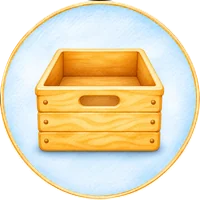
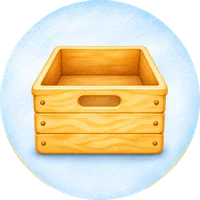
Vokabelkiste: Abzeichen sauber rund und in gleich hohen Reihen, neues Bild «Bilderblick», Reiter mit Bildern, liebevollerer Heftumschlag
Claude-Session: https://claude.ai/code/session_016s2NAFiGyik3sFHXEjMSbh

Changed region(s): [[0.15, 0.21, 0.84, 0.81], [0.0, 0.0, 1.0, 1.0]]

diff --git a/vokabelkiste/index.html b/vokabelkiste/index.html
@@ -731,6 +731,36 @@ ul.miss{margin:0;padding-left:20px;max-height:200px;overflow:auto;color:var(--mu
 .face.back .cpic{position:relative;right:auto;bottom:auto}
 .face.back .cpic .pic{width:clamp(64px,22vw,120px);height:clamp(64px,22vw,120px)}
 .face.back .cpic .pic.emo{font-size:clamp(44px,14vw,78px);width:auto;height:auto}
+/* Heft, Runde 3: Abzeichen in gleich hohen Reihen, sauberer Goldrand (vom CSS), Reiter mit Bildern, liebevoller Umschlag */
+.badges{align-items:start;gap:22px 12px}
+.bdg{display:grid;grid-template-rows:124px auto auto;justify-items:center;align-items:start}
+.bdg .bi{align-self:center;border-radius:50%}
+.bdg.t0 .bi{box-shadow:0 0 0 3px #fff,0 0 0 5px #e1e5e8!important}
+.bdg.t1 .bi{box-shadow:0 0 0 3px #fff,0 0 0 5px var(--gold-l),0 5px 12px rgba(63,120,168,.18)!important}
+.bdg.t2 .bi{box-shadow:0 0 0 3px #fff,0 0 0 6px #c9d2d9,0 0 0 8px #fff,0 6px 14px rgba(63,120,168,.2)!important}
+.bdg.t3 .bi{box-shadow:0 0 0 3px #fff,0 0 0 6px var(--gold),0 0 0 9px #fff3c9,0 6px 18px rgba(196,149,47,.4)!important}
+.bdg.t4 .bi{box-shadow:0 0 0 3px #fff,0 0 0 7px var(--gold-d),0 0 0 11px #ffe7a0,0 0 26px rgba(214,173,69,.75)!important}
+.bdg .bn{margin-top:4px}
+.htab{display:inline-flex;align-items:center;gap:8px}
+.htab .rt{width:30px;height:30px;border-radius:50%;flex:none}
+.htab:not(.on) .rt{opacity:.85}
+.hcover{min-height:190px;background:radial-gradient(circle at 18% 30%,rgba(255,255,255,.14),transparent 40%),radial-gradient(circle at 80% 80%,rgba(255,255,255,.08),transparent 45%),repeating-linear-gradient(45deg,rgba(255,255,255,.05) 0 2px,transparent 2px 5px),repeating-linear-gradient(-45deg,rgba(0,0,0,.05) 0 2px,transparent 2px 5px),linear-gradient(135deg,#5a95c6,#33679a 60%,#2c5a86)}
+.hstich{position:absolute;inset:10px 96px 10px 30px;border:2px dashed rgba(255,248,225,.55);border-radius:10px 18px 18px 10px;pointer-events:none}
+.hband{right:70px;width:16px}
+.hband i{position:absolute;left:-5px;top:50%;width:26px;height:16px;margin-top:-8px;border-radius:5px;background:linear-gradient(180deg,#f3dc9a,#c4952f);box-shadow:0 2px 4px rgba(0,0,0,.3)}
+.hribbon{position:absolute;right:120px;bottom:-2px;width:18px;height:46px;background:linear-gradient(90deg,#e9a49c,#d9766c);clip-path:polygon(0 0,100% 0,100% 100%,50% 78%,0 100%);box-shadow:0 2px 4px rgba(0,0,0,.2)}
+.hdoo{position:absolute;color:rgba(255,243,201,.85);font-size:20px;pointer-events:none;text-shadow:0 0 6px rgba(255,255,255,.25)}
+.hdoo.d1{left:22%;top:16%;font-size:24px}.hdoo.d2{left:30%;bottom:16%}.hdoo.d3{right:28%;top:14%;font-size:18px;color:rgba(252,239,237,.8)}
+.hdoo.d4{right:22%;bottom:18%;font-size:16px}.hdoo.d5{left:14%;bottom:24%;font-size:16px}.hdoo.d6{right:33%;bottom:30%;font-size:14px}
+.hlabel{transform:rotate(-1.2deg);padding:16px 40px 14px;
+  background:linear-gradient(transparent 0 calc(100% - 22px),rgba(63,120,168,.0) 0),repeating-linear-gradient(transparent 0 25px,rgba(63,120,168,.10) 25px 26px),#fffdf5}
+.htape{position:absolute;top:-12px;width:74px;height:24px;background:repeating-linear-gradient(45deg,rgba(233,164,156,.75) 0 6px,rgba(252,239,237,.75) 6px 12px);box-shadow:0 1px 2px rgba(0,0,0,.12)}
+.htape.l{left:-18px;transform:rotate(-14deg)}
+.htape.r{right:-18px;transform:rotate(12deg);background:repeating-linear-gradient(45deg,rgba(156,200,234,.8) 0 6px,rgba(220,240,253,.8) 6px 12px)}
+.hk{letter-spacing:.06em}
+.hz{display:block;width:60%;height:10px;margin-top:4px;background:radial-gradient(circle,var(--gold) 1.6px,transparent 2.2px) 0 50%/14px 10px repeat-x;opacity:.7}
+.heule{left:auto;right:132px;top:auto;bottom:10px;transform:rotate(8deg);width:86px;height:86px;border:0;border-radius:50%;box-shadow:0 0 0 4px #fff,0 0 0 6px var(--gold),0 8px 16px rgba(0,0,0,.28)}
+@media (max-width:620px){.heule{width:56px;height:56px;right:96px;bottom:6px}.hstich{right:84px}.hlabel{padding:12px 22px;min-width:70%}.hribbon{right:84px}.hdoo{display:none}}
 @media (prefers-reduced-motion:reduce){.inner,.tile,.fach,.fold,.portion,.bar i,.toast{transition:none}}
 </style>
 <div id="vk-root"></div>
@@ -1961,7 +1991,7 @@ function goHeft(tab){stopSession();tab=tab||'stk';nav={view:'heft',tab};if(!heft
         :`<div class="stslot zu" aria-label="Noch nicht gefunden"><div class="geheim">${FUNKEN(i+1)}<span class="fz">?</span></div></div>`}).join('')}</div>
     <p class="hfuss">Für jede geschaffte Portion klebst du einen neuen Sticker ein. Welcher es wird, ist eine Überraschung.</p>`;
   else if(tab==='bdg')body=`${prog(bn,BADGES.length,'Abzeichen')}
-    <div class="badges">${BADGES.map((b,i)=>{const n=bdgN(b,i),t=vkTier(n);return `<div class="bdg t${t}"><div class="bi"><img src="abzeichen/${b[0]}.webp?v=1" alt="" draggable="false">${n>0?`<b class="bz">${n}</b>`:''}</div><span class="bn">${b[2]}</span><small>${b[3]}</small></div>`}).join('')}</div>
+    <div class="badges">${BADGES.map((b,i)=>{const n=bdgN(b,i),t=vkTier(n);return `<div class="bdg t${t}"><div class="bi"><img src="abzeichen/${b[0]}.webp?v=2" alt="" draggable="false">${n>0?`<b class="bz">${n}</b>`:''}</div><span class="bn">${b[2]}</span><small>${b[3]}</small></div>`}).join('')}</div>
     <p class="hfuss">Viele Abzeichen bekommst du mehrmals. Ab 5, 10 und 25 werden sie grösser.</p>`;
   else body=`${prog(units.filter(u=>urkT(u)).length,units.length,'Urkunden')}
     <div class="urks">${units.length?units.map(u=>{const t=urkT(u);return `<button class="urk ${t?'':'leer'}" data-urk="${u.id}" ${t?'':'disabled'}>
@@ -1971,9 +2001,12 @@ function goHeft(tab){stopSession();tab=tab||'stk';nav={view:'heft',tab};if(!heft
   const name=V?'Lena':KIDNAME;
   stage.innerHTML=`<div class="heft">
     ${CAN_EDIT?`<div class="hvor"><span>${V?'👁 Vorschau: So sieht ein volles Heft aus. Nichts davon wird gespeichert.':'Lehrperson: Möchtest du sehen, wie ein volles Heft aussieht?'}</span><button class="pill sm ${V?'rose':''}" id="hvorB">${V?'Vorschau beenden':'👁 Vorschau'}</button></div>`:''}
-    <div class="hcover"><div class="hband"></div><div class="hlabel"><span class="hk">Vokabelkiste · ${esc(SUB().name)}</span><span class="hn">${name?'Heft von '+esc(name):'Mein Heft'}</span></div><img src="../bilder/eule.webp" alt="" class="heule"></div>
+    <div class="hcover"><i class="hstich"></i><div class="hband"><i></i></div><i class="hribbon"></i>
+      <span class="hdoo d1">✦</span><span class="hdoo d2">✧</span><span class="hdoo d3">♡</span><span class="hdoo d4">✦</span><span class="hdoo d5">☆</span><span class="hdoo d6">✧</span>
+      <div class="hlabel"><i class="htape l"></i><i class="htape r"></i><span class="hk">✦ Vokabelkiste · ${esc(SUB().name)} ✦</span><span class="hn">${name?'Heft von '+esc(name):'Mein Heft'}</span><span class="hz"></span></div>
+      <img src="../bilder/eule.webp" alt="" class="heule" draggable="false"></div>
     ${vkZielHTML(false)}
-    <div class="hbook"><div class="htabs" role="tablist">${[['stk','Sticker','🧩'],['bdg','Abzeichen','🏅'],['urk','Urkunden','📜']].map(([k,t,e])=>`<button class="htab h-${k} ${k===tab?'on':''}" data-ht="${k}" role="tab" aria-selected="${k===tab}"><span class="emo">${e}</span> ${t}</button>`).join('')}</div>
+    <div class="hbook"><div class="htabs" role="tablist">${[['stk','Sticker','sticker'],['bdg','Abzeichen','abzeichen'],['urk','Urkunden','urkunden']].map(([k,t,e])=>`<button class="htab h-${k} ${k===tab?'on':''}" data-ht="${k}" role="tab" aria-selected="${k===tab}"><img class="rt" src="abzeichen/reiter-${e}.webp?v=1" alt="" draggable="false">${t}</button>`).join('')}</div>
     <div class="hpage">${body}</div></div></div>`;
   $$('[data-ht]').forEach(b=>b.onclick=()=>goHeft(b.dataset.ht));
   const vb=$('#hvorB');if(vb)vb.onclick=()=>{heftVor=!heftVor;goHeft(tab)};

diff --git a/werkstatt/einbau/vokabelkiste/vk_eule.css b/werkstatt/einbau/vokabelkiste/vk_eule.css
@@ -329,3 +329,33 @@ ul.miss{margin:0;padding-left:20px;max-height:200px;overflow:auto;color:var(--mu
 .face.back .cpic{position:relative;right:auto;bottom:auto}
 .face.back .cpic .pic{width:clamp(64px,22vw,120px);height:clamp(64px,22vw,120px)}
 .face.back .cpic .pic.emo{font-size:clamp(44px,14vw,78px);width:auto;height:auto}
+/* Heft, Runde 3: Abzeichen in gleich hohen Reihen, sauberer Goldrand (vom CSS), Reiter mit Bildern, liebevoller Umschlag */
+.badges{align-items:start;gap:22px 12px}
+.bdg{display:grid;grid-template-rows:124px auto auto;justify-items:center;align-items:start}
+.bdg .bi{align-self:center;border-radius:50%}
+.bdg.t0 .bi{box-shadow:0 0 0 3px #fff,0 0 0 5px #e1e5e8!important}
+.bdg.t1 .bi{box-shadow:0 0 0 3px #fff,0 0 0 5px var(--gold-l),0 5px 12px rgba(63,120,168,.18)!important}
+.bdg.t2 .bi{box-shadow:0 0 0 3px #fff,0 0 0 6px #c9d2d9,0 0 0 8px #fff,0 6px 14px rgba(63,120,168,.2)!important}
+.bdg.t3 .bi{box-shadow:0 0 0 3px #fff,0 0 0 6px var(--gold),0 0 0 9px #fff3c9,0 6px 18px rgba(196,149,47,.4)!important}
+.bdg.t4 .bi{box-shadow:0 0 0 3px #fff,0 0 0 7px var(--gold-d),0 0 0 11px #ffe7a0,0 0 26px rgba(214,173,69,.75)!important}
+.bdg .bn{margin-top:4px}
+.htab{display:inline-flex;align-items:center;gap:8px}
+.htab .rt{width:30px;height:30px;border-radius:50%;flex:none}
+.htab:not(.on) .rt{opacity:.85}
+.hcover{min-height:190px;background:radial-gradient(circle at 18% 30%,rgba(255,255,255,.14),transparent 40%),radial-gradient(circle at 80% 80%,rgba(255,255,255,.08),transparent 45%),repeating-linear-gradient(45deg,rgba(255,255,255,.05) 0 2px,transparent 2px 5px),repeating-linear-gradient(-45deg,rgba(0,0,0,.05) 0 2px,transparent 2px 5px),linear-gradient(135deg,#5a95c6,#33679a 60%,#2c5a86)}
+.hstich{position:absolute;inset:10px 96px 10px 30px;border:2px dashed rgba(255,248,225,.55);border-radius:10px 18px 18px 10px;pointer-events:none}
+.hband{right:70px;width:16px}
+.hband i{position:absolute;left:-5px;top:50%;width:26px;height:16px;margin-top:-8px;border-radius:5px;background:linear-gradient(180deg,#f3dc9a,#c4952f);box-shadow:0 2px 4px rgba(0,0,0,.3)}
+.hribbon{position:absolute;right:120px;bottom:-2px;width:18px;height:46px;background:linear-gradient(90deg,#e9a49c,#d9766c);clip-path:polygon(0 0,100% 0,100% 100%,50% 78%,0 100%);box-shadow:0 2px 4px rgba(0,0,0,.2)}
+.hdoo{position:absolute;color:rgba(255,243,201,.85);font-size:20px;pointer-events:none;text-shadow:0 0 6px rgba(255,255,255,.25)}
+.hdoo.d1{left:22%;top:16%;font-size:24px}.hdoo.d2{left:30%;bottom:16%}.hdoo.d3{right:28%;top:14%;font-size:18px;color:rgba(252,239,237,.8)}
+.hdoo.d4{right:22%;bottom:18%;font-size:16px}.hdoo.d5{left:14%;bottom:24%;font-size:16px}.hdoo.d6{right:33%;bottom:30%;font-size:14px}
+.hlabel{transform:rotate(-1.2deg);padding:16px 40px 14px;
+  background:linear-gradient(transparent 0 calc(100% - 22px),rgba(63,120,168,.0) 0),repeating-linear-gradient(transparent 0 25px,rgba(63,120,168,.10) 25px 26px),#fffdf5}
+.htape{position:absolute;top:-12px;width:74px;height:24px;background:repeating-linear-gradient(45deg,rgba(233,164,156,.75) 0 6px,rgba(252,239,237,.75) 6px 12px);box-shadow:0 1px 2px rgba(0,0,0,.12)}
+.htape.l{left:-18px;transform:rotate(-14deg)}
+.htape.r{right:-18px;transform:rotate(12deg);background:repeating-linear-gradient(45deg,rgba(156,200,234,.8) 0 6px,rgba(220,240,253,.8) 6px 12px)}
+.hk{letter-spacing:.06em}
+.hz{display:block;width:60%;height:10px;margin-top:4px;background:radial-gradient(circle,var(--gold) 1.6px,transparent 2.2px) 0 50%/14px 10px repeat-x;opacity:.7}
+.heule{left:auto;right:132px;top:auto;bottom:10px;transform:rotate(8deg);width:86px;height:86px;border:0;border-radius:50%;box-shadow:0 0 0 4px #fff,0 0 0 6px var(--gold),0 8px 16px rgba(0,0,0,.28)}
+@media (max-width:620px){.heule{width:56px;height:56px;right:96px;bottom:6px}.hstich{right:84px}.hlabel{padding:12px 22px;min-width:70%}.hribbon{right:84px}.hdoo{display:none}}

diff --git a/werkstatt/einbau/vokabelkiste/vk_heft.js b/werkstatt/einbau/vokabelkiste/vk_heft.js
@@ -96,7 +96,7 @@ function goHeft(tab){stopSession();tab=tab||'stk';nav={view:'heft',tab};if(!heft
         :`<div class="stslot zu" aria-label="Noch nicht gefunden"><div class="geheim">${FUNKEN(i+1)}<span class="fz">?</span></div></div>`}).join('')}</div>
     <p class="hfuss">Für jede geschaffte Portion klebst du einen neuen Sticker ein. Welcher es wird, ist eine Überraschung.</p>`;
   else if(tab==='bdg')body=`${prog(bn,BADGES.length,'Abzeichen')}
-    <div class="badges">${BADGES.map((b,i)=>{const n=bdgN(b,i),t=vkTier(n);return `<div class="bdg t${t}"><div class="bi"><img src="abzeichen/${b[0]}.webp?v=1" alt="" draggable="false">${n>0?`<b class="bz">${n}</b>`:''}</div><span class="bn">${b[2]}</span><small>${b[3]}</small></div>`}).join('')}</div>
+    <div class="badges">${BADGES.map((b,i)=>{const n=bdgN(b,i),t=vkTier(n);return `<div class="bdg t${t}"><div class="bi"><img src="abzeichen/${b[0]}.webp?v=2" alt="" draggable="false">${n>0?`<b class="bz">${n}</b>`:''}</div><span class="bn">${b[2]}</span><small>${b[3]}</small></div>`}).join('')}</div>
     <p class="hfuss">Viele Abzeichen bekommst du mehrmals. Ab 5, 10 und 25 werden sie grösser.</p>`;
   else body=`${prog(units.filter(u=>urkT(u)).length,units.length,'Urkunden')}
     <div class="urks">${units.length?units.map(u=>{const t=urkT(u);return `<button class="urk ${t?'':'leer'}" data-urk="${u.id}" ${t?'':'disabled'}>
@@ -106,9 +106,12 @@ function goHeft(tab){stopSession();tab=tab||'stk';nav={view:'heft',tab};if(!heft
   const name=V?'Lena':KIDNAME;
   stage.innerHTML=`<div class="heft">
     ${CAN_EDIT?`<div class="hvor"><span>${V?'👁 Vorschau: So sieht ein volles Heft aus. Nichts davon wird gespeichert.':'Lehrperson: Möchtest du sehen, wie ein volles Heft aussieht?'}</span><button class="pill sm ${V?'rose':''}" id="hvorB">${V?'Vorschau beenden':'👁 Vorschau'}</button></div>`:''}
-    <div class="hcover"><div class="hband"></div><div class="hlabel"><span class="hk">Vokabelkiste · ${esc(SUB().name)}</span><span class="hn">${name?'Heft von '+esc(name):'Mein Heft'}</span></div><img src="../bilder/eule.webp" alt="" class="heule"></div>
+    <div class="hcover"><i class="hstich"></i><div class="hband"><i></i></div><i class="hribbon"></i>
+      <span class="hdoo d1">✦</span><span class="hdoo d2">✧</span><span class="hdoo d3">♡</span><span class="hdoo d4">✦</span><span class="hdoo d5">☆</span><span class="hdoo d6">✧</span>
+      <div class="hlabel"><i class="htape l"></i><i class="htape r"></i><span class="hk">✦ Vokabelkiste · ${esc(SUB().name)} ✦</span><span class="hn">${name?'Heft von '+esc(name):'Mein Heft'}</span><span class="hz"></span></div>
+      <img src="../bilder/eule.webp" alt="" class="heule" draggable="false"></div>
     ${vkZielHTML(false)}
-    <div class="hbook"><div class="htabs" role="tablist">${[['stk','Sticker','🧩'],['bdg','Abzeichen','🏅'],['urk','Urkunden','📜']].map(([k,t,e])=>`<button class="htab h-${k} ${k===tab?'on':''}" data-ht="${k}" role="tab" aria-selected="${k===tab}"><span class="emo">${e}</span> ${t}</button>`).join('')}</div>
+    <div class="hbook"><div class="htabs" role="tablist">${[['stk','Sticker','sticker'],['bdg','Abzeichen','abzeichen'],['urk','Urkunden','urkunden']].map(([k,t,e])=>`<button class="htab h-${k} ${k===tab?'on':''}" data-ht="${k}" role="tab" aria-selected="${k===tab}"><img class="rt" src="abzeichen/reiter-${e}.webp?v=1" alt="" draggable="false">${t}</button>`).join('')}</div>
     <div class="hpage">${body}</div></div></div>`;
   $$('[data-ht]').forEach(b=>b.onclick=()=>goHeft(b.dataset.ht));
   const vb=$('#hvorB');if(vb)vb.onclick=()=>{heftVor=!heftVor;goHeft(tab)};

diff --git a/index.html b/index.html
@@ -10,15 +10,15 @@
 <link rel="preconnect" href="https://fonts.googleapis.com">
 <link rel="preconnect" href="https://fonts.gstatic.com" crossorigin>
 <link rel="stylesheet" href="https://fonts.googleapis.com/css2?family=Andika:wght@400;700&family=Fredoka:wght@400;500;600;700&display=swap">
-<link rel="stylesheet" href="style.css?v=175">
+<link rel="stylesheet" href="style.css?v=176">
 </head>
 <body>
 <div id="app" aria-live="polite"><p class="boot">Klassenkiste wird geladen …</p></div>
 <div id="print" aria-hidden="true"></div>
 <div id="toast" class="toast" role="status" aria-live="polite"></div>
 <script src="https://cdn.jsdelivr.net/npm/@supabase/supabase-js@2.105.0/dist/umd/supabase.js"></script>
-<script src="config.js?v=175"></script>
-<script src="db.js?v=175"></script>
-<script src="app.js?v=175"></script>
+<script src="config.js?v=176"></script>
+<script src="db.js?v=176"></script>
+<script src="app.js?v=176"></script>
 </body>
 </html>

diff --git a/app.js b/app.js
@@ -291,7 +291,7 @@
     return m && /^[a-z0-9][a-z0-9_\-\/\.]*$/i.test(m[1]) && m[1].indexOf('..') < 0 ? m[1] : null;
   }
   var ZR_VER = '1';
-  var VK_VER = '19'; // Vokabelkiste (vokabelkiste/index.html)
+  var VK_VER = '20'; // Vokabelkiste (vokabelkiste/index.html)
   var GD_VER = '2'; // Gedächtniskiste (gedaechtnis/, gebaut mit werkstatt/spiele/gedaechtnis/bauen.py)
   var KS_VER = '34'; // Knobelspiele (knobelspiele/, gebaut mit werkstatt/spiele/knobelspiele/bauen.py)
   var EN_VER = '19'; // Englisch-Spiele (englisch/, gebaut mit werkstatt/spiele/englisch/bauen.py)

diff --git a/CLAUDE.md b/CLAUDE.md
@@ -146,7 +146,7 @@ So läuft ein Werkzeug im Portal:
 
 ## Cache-Bremse (wichtig, sonst sehen Geräte alte Dateien)
 
-- **`index.html`:** `?v=N` bei allen vier Dateien um 1 erhöhen, sobald sich `app.js`, `db.js`, `style.css` oder `config.js` ändert (zurzeit `v=175`).
+- **`index.html`:** `?v=N` bei allen vier Dateien um 1 erhöhen, sobald sich `app.js`, `db.js`, `style.css` oder `config.js` ändert (zurzeit `v=176`).
 - **Werkzeug-Versionen in `app.js`:** `HEFT_VER`, `PIN_VER`, `OTTER_VER`, `ATELIER_VER`, `QUIZ_VER`, `ZR_VER`, `VK_VER`, `GD_VER`, `KS_VER`, `EN_VER` und die Tagesfolie (`tagesfolie.html?v=' + ('39')`). Erhöhe die passende Version, wenn sich die Werkzeug-Seite ändert.
 
 ## Neue Version eines Werkzeugs einbauen
